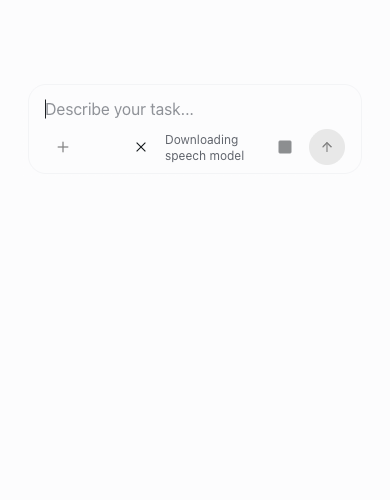
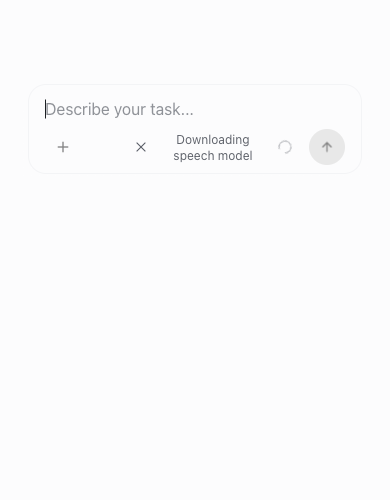
style(dictation): smooth recording transitions and preserve focus

Changed region(s): [[0.4308, 0.27, 0.6462, 0.33], [0.7077, 0.27, 0.7692, 0.33]]

diff --git a/apps/app/src/react-app/domains/session/surface/composer/native-dictation-control.tsx b/apps/app/src/react-app/domains/session/surface/composer/native-dictation-control.tsx
@@ -1,5 +1,5 @@
-import { CircleAlert, Mic, MicOff, Square, X } from "lucide-react";
-import { useSyncExternalStore } from "react";
+import { CircleAlert, LoaderCircle, Mic, MicOff, Square, X } from "lucide-react";
+import { useEffect, useRef, useSyncExternalStore } from "react";
 import { DictationWaveform, type useNativeDictation } from "@openwork/ui/react";
 import { Button } from "@/components/ui/button";
 
@@ -8,7 +8,7 @@ export function NativeDictationControl({ dictation, disabled, text }: {
   disabled?: boolean;
   text: string;
 }) {
-  if (dictation.localRecording) return <NativeDictationRecording dictation={dictation} />;
+  if (dictation.local) return <LocalDictationControl dictation={dictation} disabled={disabled} />;
   const stopping = dictation.state === "listening";
   return <div className="flex items-center gap-1.5">
     {dictation.active ? <DictationWaveform text={text} className="h-6 w-16 shrink-0 text-dls-secondary [&_rect]:transition-transform [&_rect]:duration-150 [&_rect]:ease-out motion-reduce:[&_rect]:transition-none" /> : null}
@@ -23,21 +23,67 @@ export function NativeDictationControl({ dictation, disabled, text }: {
   </div>;
 }
 
-/** Uses the existing microphone stream alongside the live draft. */
-function NativeDictationRecording({ dictation }: { dictation: ReturnType<typeof useNativeDictation> }) {
+// Keep the main button mounted, so Stop returns to Mic without moving focus.
+// Visual transitions never delay capture, cancellation, or submission.
+function LocalDictationControl({ dictation, disabled }: {
+  dictation: ReturnType<typeof useNativeDictation>;
+  disabled?: boolean;
+}) {
+  const button = useRef<HTMLButtonElement>(null);
   const levels = useSyncExternalStore(dictation.meter.subscribe, dictation.meter.getSnapshot, dictation.meter.getSnapshot);
-  const status = dictation.installingModel ? "Downloading speech model" : dictation.state === "starting" ? "Starting dictation" : dictation.state === "stopping" ? "Finishing dictation" : "Listening";
-  return <div data-dictation-recording className="flex min-w-0 items-center gap-1.5">
-    <Button type="button" variant="ghost" size="icon" aria-label="Cancel dictation" title="Cancel dictation · Esc"
-      onPointerDown={event => event.preventDefault()} onClick={dictation.cancel}>
-      <X size={16} strokeWidth={1.5} />
+  const recording = dictation.localRecording;
+  const restoreFocus = useRef(false);
+  useEffect(() => {
+    if (!recording && restoreFocus.current) {
+      restoreFocus.current = false;
+      button.current?.focus();
+    }
+  }, [recording]);
+  // Retain the outgoing phase during collapse instead of flashing "Listening".
+  const phase = useRef({ listening: false, status: "Starting dictation" });
+  if (recording) phase.current = {
+    listening: dictation.state === "listening",
+    status: dictation.installingModel ? "Downloading speech model" : dictation.state === "starting" ? "Starting dictation" : dictation.state === "stopping" ? "Finishing dictation" : "Listening",
+  };
+  const { listening, status } = phase.current;
+  const icon = dictation.state === "starting" ? "busy" : dictation.error ? "error" : recording ? "stop" : "mic";
+  const iconMotion = "col-start-1 row-start-1 transition-[opacity,scale,translate] duration-150 ease-out motion-reduce:transition-none motion-reduce:scale-100 motion-reduce:translate-y-0";
+  const feedback = "rounded-md text-dls-secondary hover:bg-muted/50 hover:text-foreground transition-[background-color,color,opacity,scale] duration-150 ease-out enabled:active:scale-95 motion-reduce:enabled:active:scale-100 motion-reduce:transition-none motion-reduce:scale-100 motion-reduce:translate-y-0";
+  return <div data-dictation-recording={recording ? "" : undefined} className="flex h-9 shrink-0 items-center">
+    <div data-dictation-expansion inert={!recording} aria-hidden={!recording}
+      className={`overflow-hidden transition-[width,opacity] ease-out motion-reduce:transition-none ${recording ? "w-36 opacity-100 duration-180" : "w-0 opacity-0 duration-120"}`}>
+      <div className="flex h-9 w-36 items-center gap-1.5 pr-1.5">
+        <Button type="button" variant="ghost" size="icon" aria-label="Cancel dictation" title="Cancel dictation · Esc"
+          className={`${feedback} focus-visible:ring-inset`} tabIndex={recording ? 0 : -1}
+          onPointerDown={event => event.preventDefault()} onClick={event => {
+            restoreFocus.current = document.activeElement === event.currentTarget;
+            dictation.cancel();
+          }}>
+          <X size={16} strokeWidth={1.5} />
+        </Button>
+        <div className="grid h-9 w-24 shrink-0 place-items-center" aria-hidden="true">
+          <DictationWaveform text="" levels={levels}
+            className={`col-start-1 row-start-1 h-5 w-24 text-dls-secondary transition-[opacity,scale,translate] duration-150 ease-out [&_rect]:transition-transform [&_rect]:duration-120 [&_rect]:ease-out motion-reduce:hidden ${listening ? "translate-y-0 opacity-100" : "translate-y-1 opacity-0"}`} />
+          <span className={`col-start-1 row-start-1 w-24 text-center text-xs leading-4 text-dls-secondary transition-[opacity,scale,translate] duration-150 ease-out motion-reduce:transition-none motion-reduce:scale-100 motion-reduce:translate-y-0 ${listening ? "-translate-y-1 opacity-0 motion-reduce:opacity-100" : "translate-y-0 opacity-100"}`}>
+            {status}
+          </span>
+        </div>
+      </div>
+    </div>
+    <Button ref={button} type="button" variant="ghost" size="icon" data-native-dictation
+      aria-label={recording ? "Stop dictation" : "Dictate message"} title={dictation.busy ? status : dictation.title}
+      disabled={dictation.busy || (!recording && disabled)} aria-busy={dictation.busy || undefined}
+      className={feedback} onPointerDown={event => event.preventDefault()} onClick={() => { void dictation.toggle() }}>
+      <span className="grid place-items-center" aria-hidden="true">
+        <Mic size={16} strokeWidth={1.5} className={`${iconMotion} ${icon === "mic" ? "scale-100 opacity-100" : "scale-75 opacity-0"}`} />
+        <Square size={16} strokeWidth={1.5} fill="currentColor" className={`${iconMotion} ${icon === "stop" ? "scale-100 opacity-100" : "scale-75 opacity-0"}`} />
+        <span className={`${iconMotion} ${icon === "busy" ? "scale-100 opacity-100" : "scale-75 opacity-0"}`}>
+          <LoaderCircle size={16} strokeWidth={1.5} className={icon === "busy" ? "animate-spin motion-reduce:animate-none" : undefined} />
+        </span>
+        <CircleAlert size={16} strokeWidth={1.5} className={`${iconMotion} ${icon === "error" ? "scale-100 opacity-100" : "scale-75 opacity-0"}`} />
+      </span>
     </Button>
-    {dictation.state === "listening" ? <DictationWaveform text="" levels={levels} className="h-5 w-16 shrink-0 text-dls-secondary motion-reduce:hidden" /> : null}
-    <span role="status" className={dictation.state === "listening" ? "sr-only motion-reduce:not-sr-only" : "max-w-24 text-xs text-dls-secondary"}>{status}</span>
-    <Button type="button" variant="ghost" size="icon" aria-label="Stop dictation" title="Stop dictation"
-      disabled={dictation.busy} aria-busy={dictation.busy || undefined}
-      onPointerDown={event => event.preventDefault()} onClick={() => { void dictation.toggle() }}>
-      <Square size={16} strokeWidth={1.5} fill="currentColor" />
-    </Button>
+    <span role="status" className="sr-only">{recording ? status : ""}</span>
+    {dictation.error ? <span role="alert" className="sr-only">{dictation.error}</span> : null}
   </div>;
 }

diff --git a/apps/app/tests/local-dictation-composer.test.tsx b/apps/app/tests/local-dictation-composer.test.tsx
@@ -78,7 +78,9 @@ test.each(["Send", "Enter", "Send before words"])("%s finalizes and submits once
     expect(container.querySelector("[data-composer-actions] [data-dictation-recording]")).not.toBeNull();
     expect(button("Run task").disabled).toBe(false);
     expect(container.querySelector('[aria-label="Microphone level"]')).not.toBeNull();
-    expect(Number(container.querySelector('[data-dictation-waveform] rect:last-child')?.getAttribute("height"))).toBeCloseTo(24.4);
+    const bar = container.querySelector<SVGRectElement>('[data-dictation-waveform] rect:last-child');
+    const scale = Number(bar?.style.transform.match(/scaleY\((.+)\)/)?.[1] ?? 1);
+    expect(Number(bar?.getAttribute("height")) * scale).toBeCloseTo(24.4);
     const editor = container.querySelector<HTMLElement>('[contenteditable="true"]');
     if (!editor) throw new Error("Missing editor");
     await act(async () => {
@@ -159,12 +161,23 @@ test("Stop finishes the live draft for editing without submitting", async () => 
   }
   try {
     await act(async () => { root.render(<Harness />) });
-    await act(async () => { container.querySelector<HTMLButtonElement>('[aria-label="Dictate message"]')?.click() });
+    const microphone = container.querySelector<HTMLButtonElement>('[aria-label="Dictate message"]');
+    await act(async () => { microphone?.click() });
+    const stop = container.querySelector<HTMLButtonElement>('[aria-label="Stop dictation"]');
+    expect(stop === microphone).toBe(true);
     await act(async () => { latest?.words("plan the weak") });
     await act(async () => { container.querySelector<HTMLButtonElement>('[aria-label="Stop dictation"]')?.click() });
     await act(async () => { latest?.words("plan the week."); latest?.onend?.() });
     expect(container.querySelector('[contenteditable="true"]')?.textContent).toBe("plan the week.");
     expect(sent).toEqual([]);
     expect(container.querySelector("[data-dictation-recording]")).toBeNull();
-  } finally { await act(async () => { root.unmount() }); client.clear(); container.remove(); }
+    expect(container.querySelector('[aria-label="Dictate message"]') === microphone).toBe(true);
+    prepareModel = true;
+    await act(async () => { microphone?.click() });
+    expect(microphone?.disabled).toBe(true);
+    const cancel = container.querySelector<HTMLButtonElement>('[aria-label="Cancel dictation"]');
+    await act(async () => { cancel?.focus(); cancel?.click() });
+    expect(document.activeElement === microphone).toBe(true);
+    expect(container.querySelector('[data-dictation-expansion]')?.hasAttribute("inert")).toBe(true);
+  } finally { prepareModel = false; await act(async () => { root.unmount() }); client.clear(); container.remove(); }
 });

diff --git a/apps/app/src/react-app/domains/session/surface/composer/composer-send-button.tsx b/apps/app/src/react-app/domains/session/surface/composer/composer-send-button.tsx
@@ -26,6 +26,7 @@ export function ComposerSendButton({
   onPointerDown?: PointerEventHandler<HTMLButtonElement>;
 }) {
   const busy = mode === "stopping" || mode === "preparing";
+  const iconMotion = "col-start-1 row-start-1 transition-[opacity,scale] duration-150 ease-out motion-reduce:transition-none motion-reduce:scale-100";
   return (
     <button
       type="button"
@@ -34,24 +35,24 @@ export function ComposerSendButton({
       disabled={disabled}
       aria-label={label}
       aria-busy={busy || undefined}
-      className={`inline-flex h-9 max-h-9 w-9 shrink-0 items-center justify-center rounded-full transition-colors ${
+      className={`inline-flex h-9 max-h-9 w-9 shrink-0 items-center justify-center rounded-full transition-[background-color,color,scale] duration-150 ease-out enabled:active:scale-95 motion-reduce:enabled:active:scale-100 focus-visible:outline-2 focus-visible:outline-offset-2 focus-visible:outline-ring motion-reduce:transition-none motion-reduce:scale-100 ${
         mode === "stopping"
           ? "cursor-wait bg-[var(--dls-accent)] text-[var(--dls-accent-fg)]"
           : mode === "stop"
             ? "bg-[var(--dls-accent)] text-[var(--dls-accent-fg)] hover:bg-[var(--dls-accent-hover)]"
-            : !ready || mode === "preparing"
+            : !ready || disabled || mode === "preparing"
               ? "bg-gray-4 text-gray-10"
               : "bg-[var(--dls-accent)] text-[var(--dls-accent-fg)] hover:bg-[var(--dls-accent-hover)]"
       }`}
       title={label}
     >
-      {busy ? (
-        <LoaderCircle size={15} className="animate-spin" />
-      ) : mode === "stop" ? (
-        <Square size={12} fill="currentColor" />
-      ) : (
-        <ArrowUp size={15} />
-      )}
+      <span className="grid place-items-center" aria-hidden="true">
+        <span className={`${iconMotion} ${busy ? "scale-100 opacity-100" : "scale-75 opacity-0"}`}>
+          <LoaderCircle size={15} className={busy ? "animate-spin motion-reduce:animate-none" : undefined} />
+        </span>
+        <Square size={12} fill="currentColor" className={`${iconMotion} ${mode === "stop" ? "scale-100 opacity-100" : "scale-75 opacity-0"}`} />
+        <ArrowUp size={15} className={`${iconMotion} ${!busy && mode !== "stop" ? "scale-100 opacity-100" : "scale-75 opacity-0"}`} />
+      </span>
       <span className="sr-only">{label}</span>
     </button>
   );

diff --git a/packages/ui/src/react/dictation-waveform.tsx b/packages/ui/src/react/dictation-waveform.tsx
@@ -5,8 +5,8 @@ import { useEffect, useRef, useState } from "react"
 // Two offset crests make a quiet, recognizable signal at composer size.
 const heights = [3, 5, 9, 17, 22, 14, 7, 4, 8, 15, 20, 11, 5, 3]
 
-/** A dictation-mode indicator, not a microphone meter. It responds only to
- * changes in the editable draft; the OS does not expose its listening state. */
+/** Host levels render a microphone meter. Without them, text changes drive a
+ * dictation-mode indicator; the browser/OS owns the microphone state. */
 export function DictationWaveform({ text, levels, className }: { text: string; levels?: readonly number[]; className?: string }) {
   const previous = useRef(text)
   const [active, setActive] = useState(false)
@@ -23,7 +23,8 @@ export function DictationWaveform({ text, levels, className }: { text: string; l
       {Array.from({ length: 48 }, (_, index) => {
         const level = levels[index - (48 - levels.length)] ?? 0
         const height = 2 + Math.max(0, Math.min(1, level)) * 28
-        return <rect key={index} x={1 + index * 5} y={16 - height / 2} width="2" height={height} rx="1" fill="currentColor" />
+        return <rect key={index} x={1 + index * 5} y="2" width="2" height="28" rx="1" fill="currentColor"
+          style={{ transformBox: "fill-box", transformOrigin: "center", transform: `scaleY(${height / 28})` }} />
       })}
     </svg>
   </span>

diff --git a/packages/ui/src/react/native-dictation.ts b/packages/ui/src/react/native-dictation.ts
@@ -155,6 +155,7 @@ export function useNativeDictation(options: {
   }
   return {
     available, error, nativeMode, state, meter, installingModel,
+    local: Boolean(options.local),
     localRecording: Boolean(options.local && !nativeMode && state !== "idle"),
     active: options.enabled && (state !== "idle" || nativeMode),
     busy: state === "starting" || state === "stopping",

diff --git a/docs/features/local-dictation/README.md b/docs/features/local-dictation/README.md
@@ -34,9 +34,32 @@ moving meter with a static Listening label.
 
 ![Cancellable first-use model setup at 390 px](model-setup.png)
 
-These screenshots render the real composer in an isolated browser harness.
+[Watch the recording and Send transitions](transitions.mp4).
+
+These screenshots and the motion preview render the real composer in an isolated browser harness.
 Speech events are deterministic fixtures and model selection is omitted;
 they show the interaction, not an acoustic accuracy result.
+
+## Motion and responsiveness
+
+Recording controls expand beside the stationary Send button in 180 ms and
+collapse in 120 ms, with ease-out easing. Setup, waveform and finishing share
+a fixed footprint, so phase changes do not move Send or change the toolbar's
+height. The outgoing phase stays visible during collapse instead of flashing
+a different label. Icons crossfade over 150 ms; audio bars use 120 ms transform
+transitions between actual microphone measurements. Press feedback is subtle,
+with no bounce, fabricated activity or delay before an action takes effect.
+
+The main Mic/Stop button remains mounted. Keyboard cancellation returns focus
+to it after setup or capture; closed controls are inert and leave the tab order
+immediately, even while fading out. Reduced motion disables transitions, press
+scaling and spinner animation and uses a static Listening label.
+
+Browser frame sampling verified intermediate opening/closing widths, a fixed
+Send position and equal widths for setup/listening/finishing. A 390 px check
+covered rapid start/cancel and focus restoration without overflow. Reduced
+motion had zero active animations across all phases. These are focused
+interaction checks, not a device-wide rendering benchmark.
 
 ## Local recognition improvements
 
